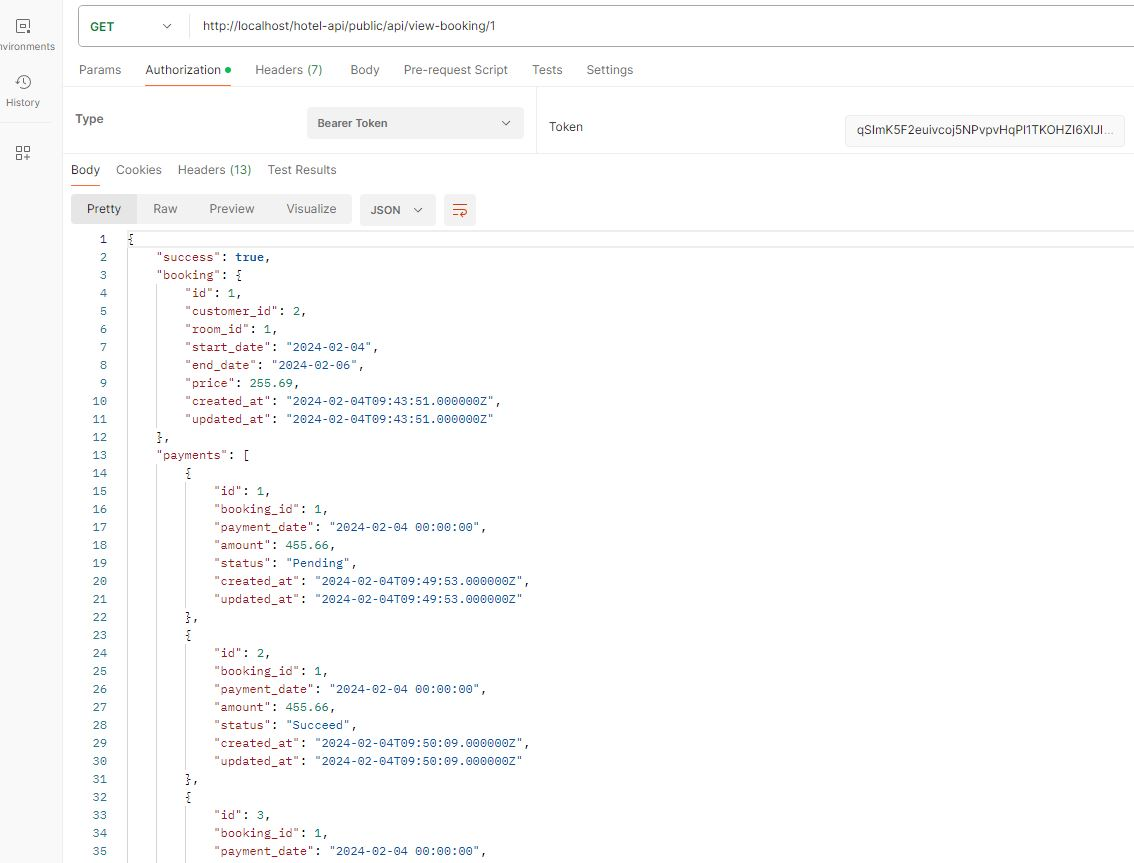
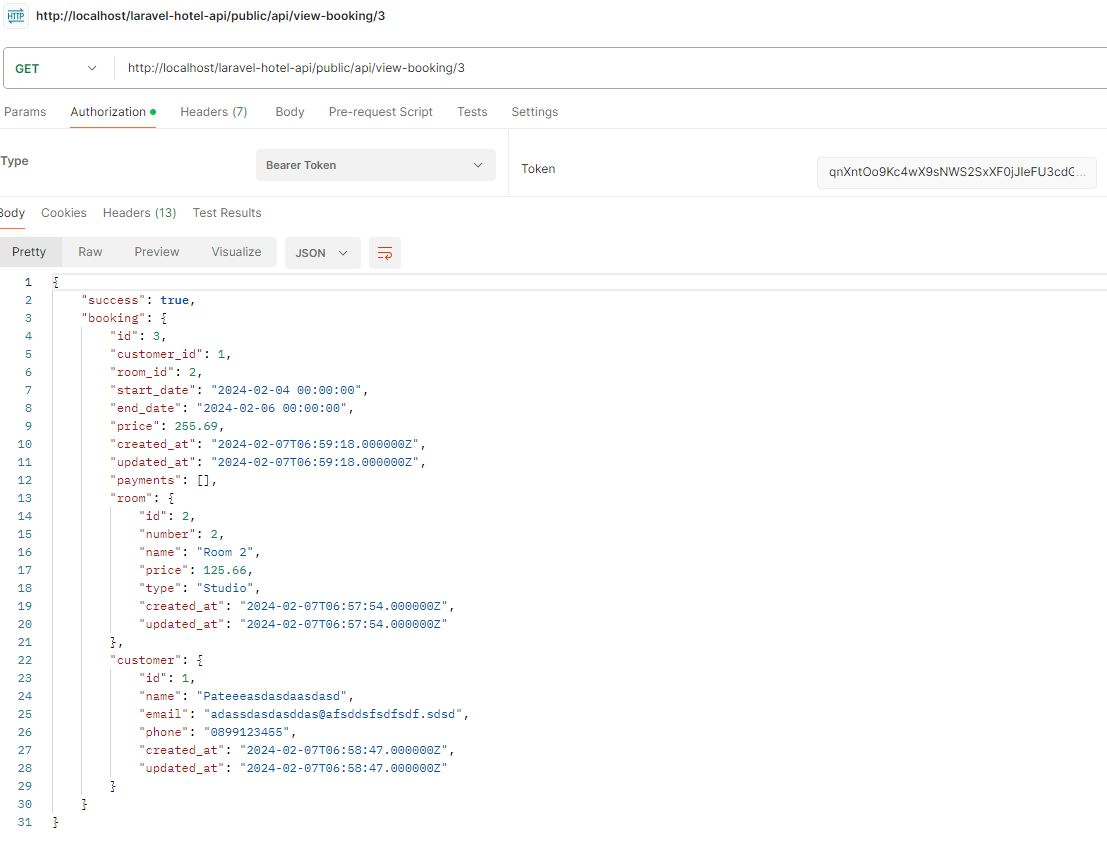
Modify main views

diff --git a/app/Http/Controllers/Api/RoomController.php b/app/Http/Controllers/Api/RoomController.php
@@ -41,48 +41,12 @@ class RoomController extends Controller
             'message' => 'Room created successfully',
             'data' => $room,
         ], 201);
-
-/*
-        try {
-            $validatedData = $request->validate([
-                'number' => 'required|integer',
-                'name' => 'required|string',
-                'price' => 'required|numeric',
-                'type' => 'required|in:' . Room::TYPE_ONE . ',' . Room::TYPE_STUDIO . ',' . Room::TYPE_TWO,
-            ]);
-        } catch (ValidationException $e){
-            return response()->json([
-                'success' => false,
-                'errors' => $e->validator->errors()->getMessages(),
-            ], 422);
-        }
-
-        try {
-            $room = Room::create($validatedData);
-        } catch (ValidationException $e) {
-            return response()->json([
-                'success' => false,
-                'errors' => $e->validator->errors()->getMessages(),
-            ], 422);
-        }
-
-        return response()->json([
-            'success' => true,
-            'message' => 'Room created successfully',
-            'data' => $room,
-        ], 201);*/
     }
 
     public function show(Room $room)
     {
         $get = Room::with('bookings')->find($room->id);
-        $bookings = [];
-        if(!empty($get->bookings)){
-            foreach ($get->bookings as $booking)
-                $bookings[] = $booking;
-        }
-
-        return response()->json(['success' => true, 'room' => $room, 'bookings' => $bookings], 201);
+        return response()->json(['success' => true, 'room' => $get], 201);
     }
 
     public function remove(Room $room)

diff --git a/app/Http/Controllers/Api/BookingController.php b/app/Http/Controllers/Api/BookingController.php
@@ -11,14 +11,8 @@ class BookingController extends Controller
 {
     public function show(Booking $booking)
     {
-        $get = Booking::with('payments')->find($booking->id);
-        $payments = [];
-        if(!empty($get->payments)){
-            foreach ($get->payments as $payment)
-                $payments[] = $payment;
-        }
-
-        return response()->json(['success' => true, 'booking' => $booking, 'payments' => $payments], 201);
+        $get = Booking::with('payments', 'room', 'customer')->find($booking->id);
+        return response()->json(['success' => true, 'booking' => $get], 201);
     }
 
     public function store(Request $request)

diff --git a/app/Http/Controllers/Api/PaymentController.php b/app/Http/Controllers/Api/PaymentController.php
@@ -5,7 +5,6 @@ namespace App\Http\Controllers\Api;
 use App\Http\Controllers\Controller;
 use Illuminate\Http\Request;
 use Illuminate\Validation\ValidationException;
-use App\Models\Booking;
 use App\Models\Payment;
 
 
@@ -13,7 +12,8 @@ class PaymentController extends Controller
 {
     public function show(Payment $payment)
     {
-        return response()->json(['success' => true, 'payment' => $payment], 201);
+        $get = Payment::with('booking')->find($payment->id);
+        return response()->json(['success' => true, 'payment' => $get], 201);
     }
 
     public function store(Request $request)

diff --git a/app/Http/Controllers/Api/CustomerController.php b/app/Http/Controllers/Api/CustomerController.php
@@ -46,13 +46,7 @@ class CustomerController extends Controller
     public function index(Customer $customer)
     {
         $get = Customer::with('bookings')->find($customer->id);
-        $bookings = [];
-        if(!empty($get->bookings)){
-            foreach ($get->bookings as $booking)
-                $bookings[] = $booking;
-        }
-
-        return response()->json(['success' => true, 'customer' => $customer, 'bookings' => $bookings], 201);
+        return response()->json(['success' => true, 'customer' => $get], 201);
     }
 
     public function remove(Customer $customer)

diff --git a/app/Models/Booking.php b/app/Models/Booking.php
@@ -17,12 +17,12 @@ class Booking extends Model
 
     protected $table = 'booking';
 
-    public function customers()
+    public function customer()
     {
         return $this->belongsTo(Customer::class);
     }
 
-    public function rooms()
+    public function room()
     {
         return $this->belongsTo(Room::class);
     }

diff --git a/app/Models/Payment.php b/app/Models/Payment.php
@@ -18,7 +18,7 @@ class Payment extends Model
 
     protected $table = 'payment';
 
-    public function bookings()
+    public function booking()
     {
         return $this->belongsTo(Booking::class);
     }

diff --git a/README.md b/README.md
@@ -37,12 +37,19 @@
 ![alt text](public/hotel-api-pic/Routes.JPG) 
 
 ### Examples
+
+![alt text](public/hotel-api-pic/ViewRoom.JPG) 
+
+![alt text](public/hotel-api-pic/ViewBooking.JPG) 
+
+![alt text](public/hotel-api-pic/ViewBooking1.JPG) 
+
+![alt text](public/hotel-api-pic/ViewPayment.JPG)
+
+![alt text](public/hotel-api-pic/ViewCustomer.JPG)
+
 ![alt text](public/hotel-api-pic/Room-add.JPG)
  
 ![alt text](public/hotel-api-pic/Room-add-token.JPG) 
 
 ![alt text](public/hotel-api-pic/StoreBooking.JPG) 
-
-![alt text](public/hotel-api-pic/ViewRoom.JPG) 
-
-![alt text](public/hotel-api-pic/ViewBooking.JPG) 
